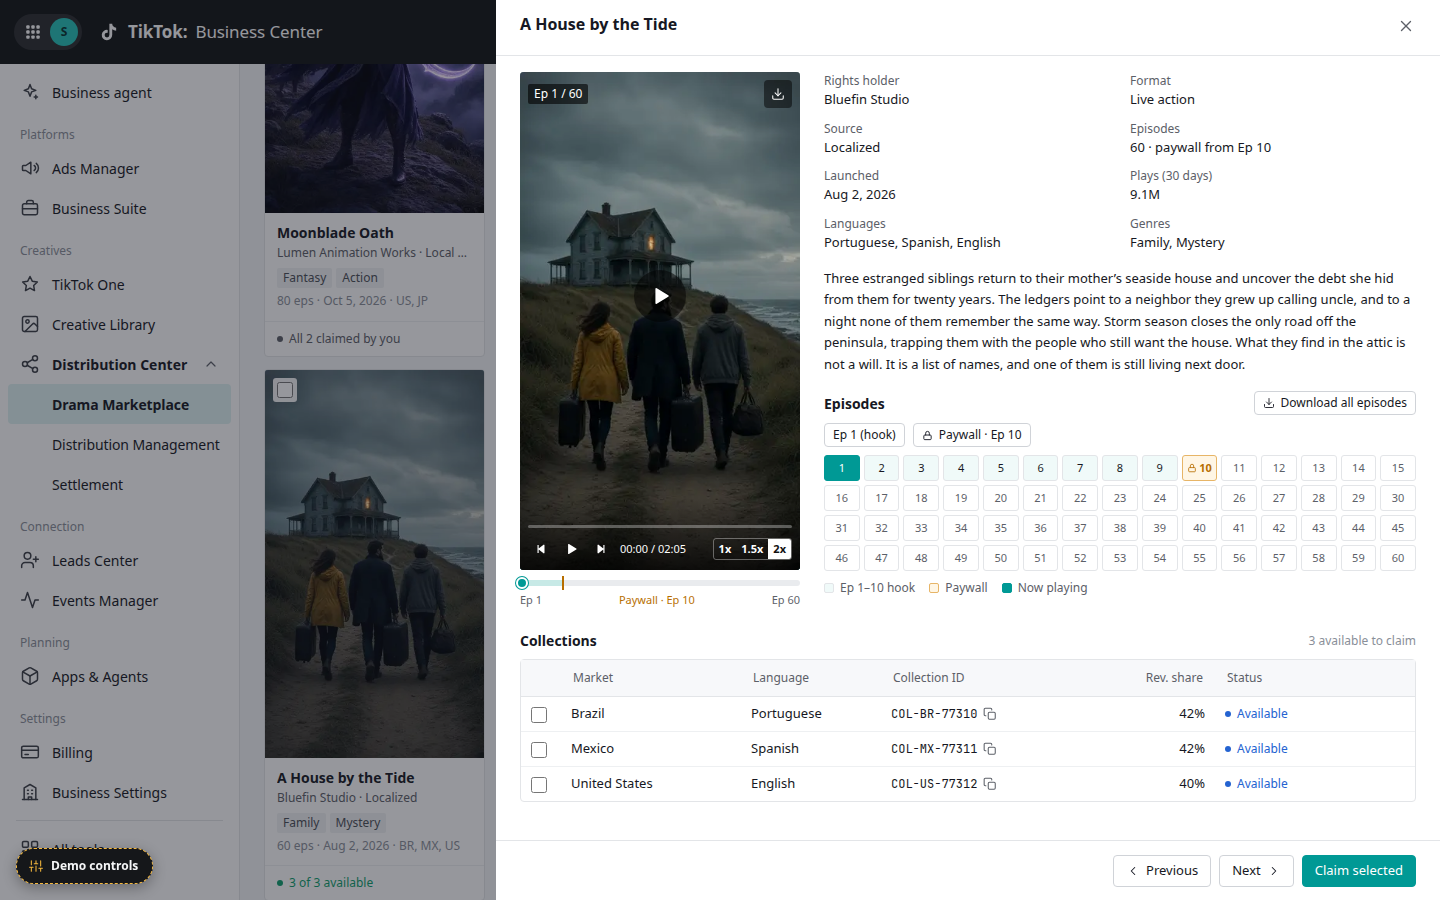
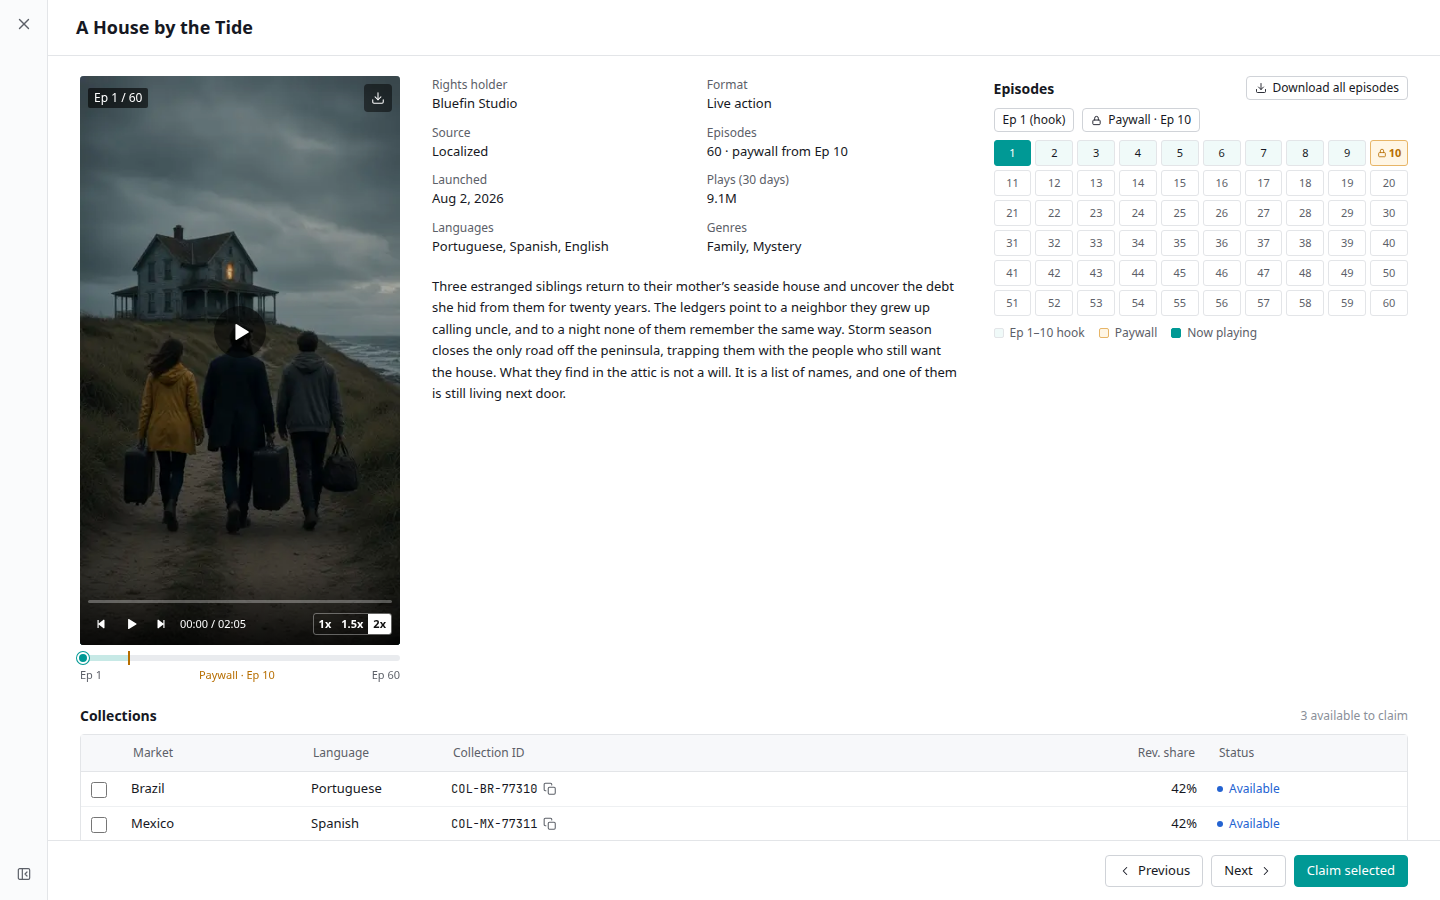
Sync prototype: full-screen drama drawer with 944px collapse
Drama details open full screen by default. Top-left X closes. Bottom-left rail control collapses to the existing 944px layout. Marketplace 9:16 overlay cards are unchanged.

diff --git a/index.html b/index.html
@@ -254,8 +254,26 @@ button.kpi.on{box-shadow:inset 0 -2px 0 var(--primary)}
 /* Drawer & modal */
 .mask{position:fixed;inset:0;background:rgba(22,24,35,.45);z-index:100;opacity:0;transition:opacity .15s}
 .mask.show{opacity:1}
-.drawer{position:fixed;top:0;right:0;bottom:0;width:min(944px,calc(100vw - 48px));background:#fff;z-index:101;display:flex;flex-direction:column;transform:translateX(100%);transition:transform .2s ease}
+.drawer{position:fixed;top:0;right:0;bottom:0;width:min(944px,calc(100vw - 48px));background:#fff;z-index:101;display:flex;flex-direction:column;transform:translateX(100%);transition:transform .2s ease,width .2s ease}
 .drawer.show{transform:none}
+.drawer.drama{flex-direction:row;align-items:stretch}
+.drawer.drama.fs{left:0;right:0;width:100%;transform:none;opacity:0;transition:opacity .18s ease,width .2s ease}
+.drawer.drama.fs.show{opacity:1;transform:none}
+.dr-rail{width:48px;flex:none;display:flex;flex-direction:column;align-items:center;padding:8px 0 10px;border-right:1px solid var(--border);background:#FAFBFC}
+.dr-rail .btn-icon{width:32px;height:32px}
+.dr-rail-bot{margin-top:auto}
+.dr-main{flex:1;min-width:0;min-height:0;display:flex;flex-direction:column}
+.drawer.drama.fs .dr-h{padding:14px 32px 14px 28px}
+.drawer.drama.fs .dr-h h2{font-size:18px;line-height:26px}
+.drawer.drama.fs .dr-b{padding:20px 32px 28px}
+.drawer.drama.fs .dr-f{padding:12px 32px}
+.drawer.drama.fs .det{grid-template-columns:320px minmax(0,1.15fr) minmax(300px,.9fr);grid-template-rows:auto auto 1fr;gap:20px 32px}
+.drawer.drama.fs .det-r{display:contents}
+.drawer.drama.fs .det-l{grid-column:1;grid-row:1 / span 3}
+.drawer.drama.fs .kv{grid-column:2;grid-row:1}
+.drawer.drama.fs .det-syn{grid-column:2;grid-row:2}
+.drawer.drama.fs .det-eps{grid-column:3;grid-row:1 / span 3;margin-top:0}
+.drawer.drama.fs .ep-grid{grid-template-columns:repeat(10,minmax(0,1fr))}
 .dr-h{min-height:56px;padding:12px 20px 12px 24px;border-bottom:1px solid var(--border);display:flex;align-items:flex-start;gap:12px}
 .dr-h .t{flex:1;min-width:0}
 .dr-h h2{margin:0;font-size:16px;line-height:24px;font-weight:600}
@@ -419,6 +437,7 @@ button.kpi.on{box-shadow:inset 0 -2px 0 var(--primary)}
 .demo-pill .ic{color:#F5B83D}
 .demo-pill em{font-style:normal;color:#A9AFB8;font-weight:500}
 #drawer-root:has(.drawer) ~ .demo .demo-pill em{display:none}
+#drawer-root:has(.drawer.fs) ~ .demo{display:none}
 .demo-panel{width:300px;background:#15171A;border:1px dashed #F5B83D;border-radius:6px;box-shadow:0 8px 24px rgba(0,0,0,.35);overflow:hidden}
 .demo-h{display:flex;align-items:center;gap:8px;padding:10px 10px 10px 14px;border-bottom:1px solid #2C3036}
 .demo-h b{font-size:12px;letter-spacing:.6px;text-transform:uppercase;color:#F5B83D}
@@ -491,6 +510,8 @@ button.kpi.on{box-shadow:inset 0 -2px 0 var(--primary)}
     <symbol id="i-inbox" viewBox="0 0 24 24" fill="none" stroke="currentColor" stroke-width="1.8" stroke-linecap="round" stroke-linejoin="round"><path d="M22 12h-6l-2 3h-4l-2-3H2"/><path d="M5.5 5.1 2 12v6a2 2 0 0 0 2 2h16a2 2 0 0 0 2-2v-6l-3.5-6.9A2 2 0 0 0 16.8 4H7.2a2 2 0 0 0-1.7 1.1z"/></symbol>
     <symbol id="i-film" viewBox="0 0 24 24" fill="none" stroke="currentColor" stroke-width="1.8" stroke-linecap="round" stroke-linejoin="round"><rect x="3" y="3" width="18" height="18" rx="2"/><path d="M7 3v18M17 3v18M3 7.5h4M3 12h18M3 16.5h4M17 7.5h4M17 16.5h4"/></symbol>
     <symbol id="i-more" viewBox="0 0 24 24" fill="currentColor"><circle cx="5" cy="12" r="1.7"/><circle cx="12" cy="12" r="1.7"/><circle cx="19" cy="12" r="1.7"/></symbol>
+    <symbol id="i-collapse" viewBox="0 0 24 24" fill="none" stroke="currentColor" stroke-width="1.8" stroke-linecap="round" stroke-linejoin="round"><rect x="3.5" y="4" width="17" height="16" rx="2"/><path d="M9.5 4v16"/><path d="m16.5 9-3 3 3 3"/></symbol>
+    <symbol id="i-expand" viewBox="0 0 24 24" fill="none" stroke="currentColor" stroke-width="1.8" stroke-linecap="round" stroke-linejoin="round"><rect x="3.5" y="4" width="17" height="16" rx="2"/><path d="M9.5 4v16"/><path d="m13.5 9 3 3-3 3"/></symbol>
   </defs>
 </svg>
 
@@ -910,20 +931,39 @@ function skelRows(n, cols){
 }
 /* Drawer / modal */
 let drawerFn = null, modalFn = null, drawerClose = null;
+function drawerClass(r){
+  return 'drawer' + (r.kind === 'drama' ? (' drama' + (DR.wide ? ' fs' : '')) : '');
+}
 function openDrawer(fn, onClose){
   drawerFn = fn; drawerClose = onClose || null;
   const r = fn();
-  $('#drawer-root').innerHTML = `<div class="mask" data-act="close-drawer"></div><aside class="drawer" role="dialog" aria-modal="true">${drawerInner(r)}</aside>`;
+  $('#drawer-root').innerHTML = `<div class="mask" data-act="close-drawer"></div><aside class="${drawerClass(r)}" role="dialog" aria-modal="true">${drawerInner(r)}</aside>`;
   requestAnimationFrame(() => { $$('#drawer-root .mask, #drawer-root .drawer').forEach(e => e.classList.add('show')); });
 }
 function drawerInner(r){
+  if (r.kind === 'drama'){
+    const wide = DR.wide;
+    const sizeLbl = wide ? 'Collapse to narrow layout' : 'Expand to full screen';
+    return `<div class="dr-rail">
+      <button type="button" class="btn btn-icon" data-act="close-drawer" aria-label="Close">${ic('close', 18)}</button>
+      <button type="button" class="btn btn-icon dr-rail-bot" data-act="drama-size" aria-label="${esc(sizeLbl)}" title="${esc(sizeLbl)}" aria-pressed="${wide ? 'true' : 'false'}">${ic(wide ? 'collapse' : 'expand', 16)}</button>
+    </div>
+    <div class="dr-main">
+      <div class="dr-h"><div class="t"><h2>${r.title}</h2>${r.sub ? '<div class="s">' + r.sub + '</div>' : ''}</div></div>
+      ${r.tabs ? r.tabs : ''}
+      <div class="dr-b">${r.body}</div>
+      ${r.footer ? '<div class="dr-f">' + r.footer + '</div>' : ''}
+    </div>`;
+  }
   return `<div class="dr-h"><div class="t"><h2>${r.title}</h2>${r.sub ? '<div class="s">' + r.sub + '</div>' : ''}</div><button class="btn btn-icon" data-act="close-drawer" aria-label="Close">${ic('close', 18)}</button></div>${r.tabs ? r.tabs : ''}<div class="dr-b">${r.body}</div>${r.footer ? '<div class="dr-f">' + r.footer + '</div>' : ''}`;
 }
 function refreshDrawer(){
   if (!drawerFn) return;
   const dr = $('#drawer-root .drawer'); if (!dr) return;
   const b = $('.dr-b', dr); const top = b ? b.scrollTop : 0;
-  const r = drawerFn(); dr.innerHTML = drawerInner(r);
+  const r = drawerFn();
+  dr.className = drawerClass(r) + (dr.classList.contains('show') ? ' show' : '');
+  dr.innerHTML = drawerInner(r);
   const nb = $('.dr-b', dr); if (nb) nb.scrollTop = top;
   if (r.after) r.after();
 }
@@ -1222,6 +1262,7 @@ function coverLeave(){
 }
 
 /* Drama detail drawer + player */
+const DR = {wide:true};
 const PL = {ctr:null, ep:1, t:0, playing:false, speed:2, timer:null};
 const DS = {sel:new Set()};
 const LD = {col:null, tab:'drama', grain:'daily', metrics:['iaa','est'], metOpen:false, vis:{bc:true, account:true, date:true}, visOpen:false, from:'2026-10-15', to:'2026-10-21', day:null, week:null, page:1, size:10};
@@ -1232,6 +1273,7 @@ function stopPlayer(){ if (PL.timer){ clearInterval(PL.timer); PL.timer = null; 
 function openDrama(ctrId, preselect){
   stopPlayer(); PL.ctr = ctrId; PL.ep = 1; PL.t = 0; PL.speed = 2;
   DS.sel = new Set(preselect || []);
+  DR.wide = true;
   openDrawer(() => dramaDrawer(ctrId), stopPlayer);
 }
 function colStatus(c){
@@ -1292,7 +1334,7 @@ function dramaBody(ctrId){
         <div><div class="k">Genres</div><div class="v">${c.genres.join(', ')}</div></div>
       </div>
       <p class="det-syn">${c.synopsis}</p>
-      <div class="sec"><div class="sec-h"><h4>Episodes</h4><button class="btn btn-xs" data-act="dl-series">${ic('download', 12)}Download all episodes</button></div>
+      <div class="sec det-eps"><div class="sec-h"><h4>Episodes</h4><button class="btn btn-xs" data-act="dl-series">${ic('download', 12)}Download all episodes</button></div>
         <div class="filters" style="margin-bottom:8px"><button class="btn btn-xs" data-act="pl-ep" data-ep="1">Ep 1 (hook)</button><button class="btn btn-xs" data-act="pl-ep" data-ep="${pw}">${ic('lock', 11)}Paywall · Ep ${pw}</button></div>
         <div class="ep-grid" id="ep-grid">${eps}</div>
         <div class="legend"><span><i style="background:#F0FAF9"></i>Ep 1–10 hook</span><span><i style="background:var(--warn-bg);border-color:#E7B567"></i>Paywall</span><span><i style="background:var(--primary);border-color:var(--primary)"></i>Now playing</span></div>
@@ -1315,7 +1357,7 @@ function dramaDrawer(ctrId){
   const nav = dramaNeighbors(ctrId);
   const prevTip = nav.prev ? 'Previous: ' + ctrOf(nav.prev).title : nav.at < 0 ? 'Not in the current Marketplace list' : 'First drama in the current Marketplace list';
   const nextTip = nav.next ? 'Next: ' + ctrOf(nav.next).title : nav.at < 0 ? 'Not in the current Marketplace list' : 'Last drama in the current Marketplace list';
-  return {title:c.title,
+  return {kind:'drama', title:c.title,
     body,
     footer:`<button class="btn" data-act="drama-prev" ${nav.prev ? 'data-id="' + nav.prev + '"' : 'disabled'} title="${esc(prevTip)}">${ic('chev-left', 14)}Previous</button><button class="btn" data-act="drama-next" ${nav.next ? 'data-id="' + nav.next + '"' : 'disabled'} title="${esc(nextTip)}">Next${ic('chev-right', 14)}</button>${dramaClaimFooter(availCount)}`};
 }
@@ -2207,6 +2249,7 @@ const ACT = {
     openDrama(c.id, st.pre);
   },
   'open-drama': (el, e) => { if (e) e.stopPropagation(); openDrama(el.dataset.id, el.dataset.pre ? [el.dataset.pre] : null); },
+  'drama-size': () => { DR.wide = !DR.wide; refreshDrawer(); },
   'pl-toggle': () => playToggle(),
   'pl-prev': () => setEp(PL.ep - 1),
   'pl-next': () => setEp(PL.ep + 1),
@@ -2331,7 +2374,7 @@ const ACT = {
   'demo-page': el => go(el.dataset.p),
   'demo-state': el => setState(el.dataset.s),
   'demo-cover': el => { DEMO.cover = el.dataset.v; coverLeave(); renderDemo(); if (S.page === 'marketplace') render(); },
-  'demo-reset': () => { DEMO.cover = 'mixed'; Object.assign(UI, freshUI()); resetLDKeepCol(); LD.col = null; LD.tab = 'drama'; closeAll(); stopPlayer(); S.data = null; S.state = '__'; location.hash = '#' + PATH.marketplace + '?state=normal'; if (location.hash === '#/marketplace?state=normal') onRoute(); toast('Demo reset to Normal.'); },
+  'demo-reset': () => { DEMO.cover = 'mixed'; Object.assign(UI, freshUI()); DR.wide = true; resetLDKeepCol(); LD.col = null; LD.tab = 'drama'; closeAll(); stopPlayer(); S.data = null; S.state = '__'; location.hash = '#' + PATH.marketplace + '?state=normal'; if (location.hash === '#/marketplace?state=normal') onRoute(); toast('Demo reset to Normal.'); },
   'demo-copy': () => copyText(location.href.split('#')[0] + '#' + PATH[S.page] + '?state=' + S.state, 'Demo link copied for this page and state')
 };
 function setState(st){ location.hash = '#' + PATH[S.page] + '?state=' + st; }

diff --git a/README.md b/README.md
@@ -34,6 +34,10 @@ Each view/state combination is deep-linkable, e.g. `#/distribution/links?state=i
 
 ![Drama Marketplace — cover hover preview](screenshots/marketplace-hover.png)
 
+![Drama detail — full screen](screenshots/drama-drawer.png)
+
+![Drama detail — narrow 944px](screenshots/drama-drawer-narrow.png)
+
 ![Bulk claim — Confirm selection](screenshots/bulk-claim.png)
 
 ![Distribution Management — Drama view](screenshots/drama-view.png)
